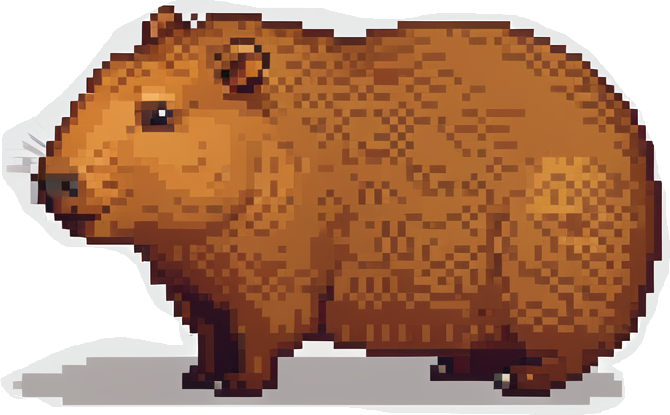
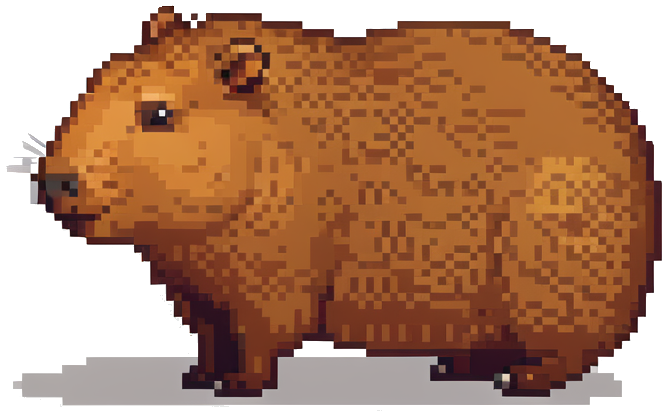
work on shop

diff --git a/styles.css b/styles.css
@@ -43,30 +43,34 @@ body {
 #shop-container {
     display: flex;
     flex-direction: column;
-    background-color: gray;
+    background-color: #AA99BB;
     border: black solid 2px;
     border-radius: 20px;
     width: fit-content;
     height: fit-content;
     gap: 10px;
+    padding: 15px 15px;
+    margin-right: 10px;
+    margin-top: 10px;
 }
 
 #shop-title {
     font-size: 50px;
     text-align: center;
-    margin-top: 20px;
-    margin-bottom: 20px;
+    margin: 0;
+    margin-top: 5px;
 }
 
 .shop-item {
-    width: 500px;
-    background-color: gray;
+    width: 400px;
+    background-color: #AACCBB;
     border: black 2px solid;
     border-radius: 10px;
     display: flex;
     justify-content: flex-start;
     align-items: center;
-    margin: 0 15px;
+    padding: 4px 7px;
+    gap: 15px;
 }
 
 .shop-item img {
@@ -76,4 +80,9 @@ body {
 
 .shop-item p {
     font-size: 30px;
+    margin: 0;
+}
+
+.shop-item:hover {
+    cursor: pointer;
 }

diff --git a/app.js b/app.js
@@ -15,3 +15,15 @@ setInterval(() => {
     cps.innerText = cps_counter + " cps"
     cps_counter = 0
 }, 1000)
+
+shop_items = document.getElementsByClassName("shop-item");
+var counter = 0
+for (const item of shop_items) {
+    item.addEventListener("click", () => {
+        switch (counter) {
+            case 0:
+            // +1 Unit per click
+        }
+    })
+    counter++
+}
